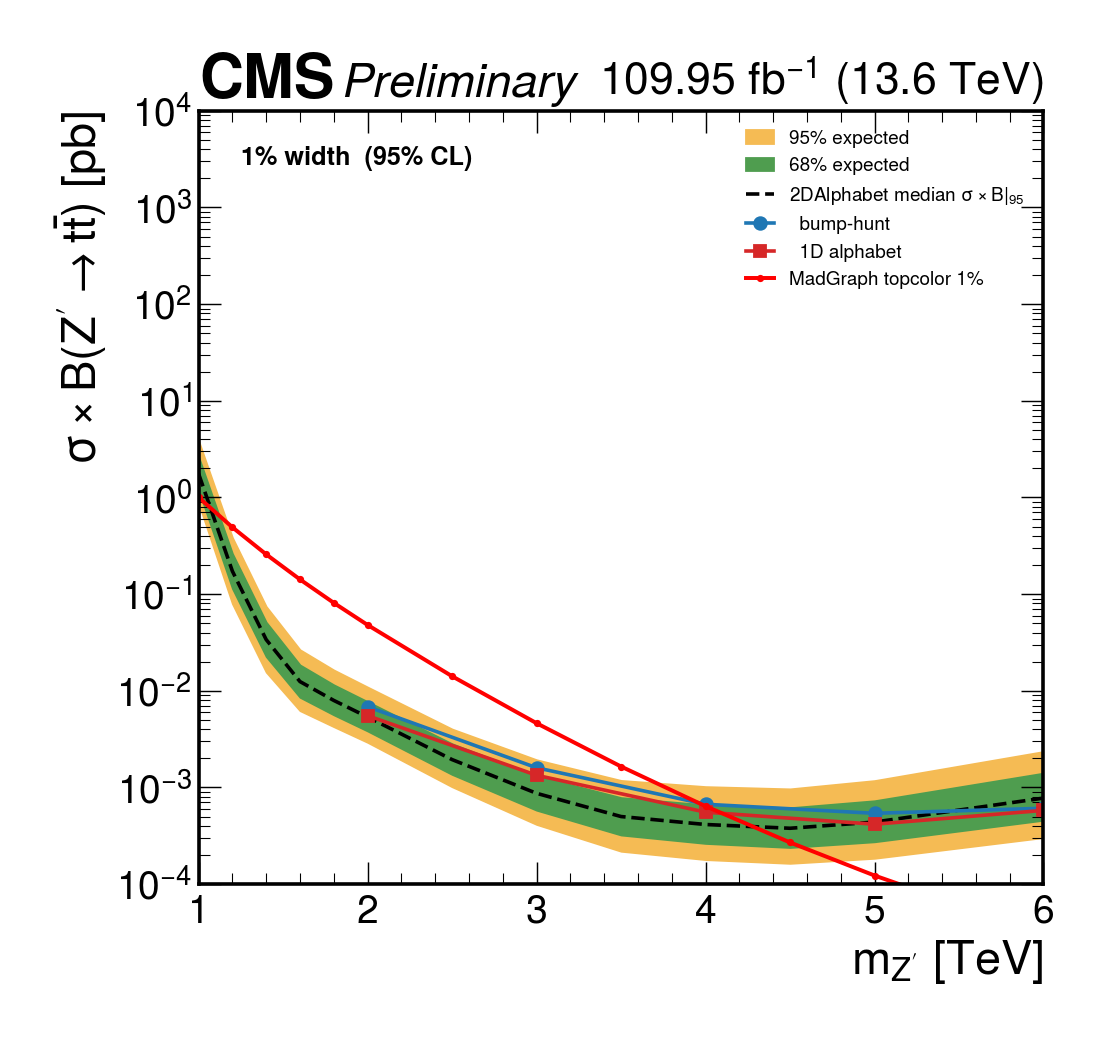
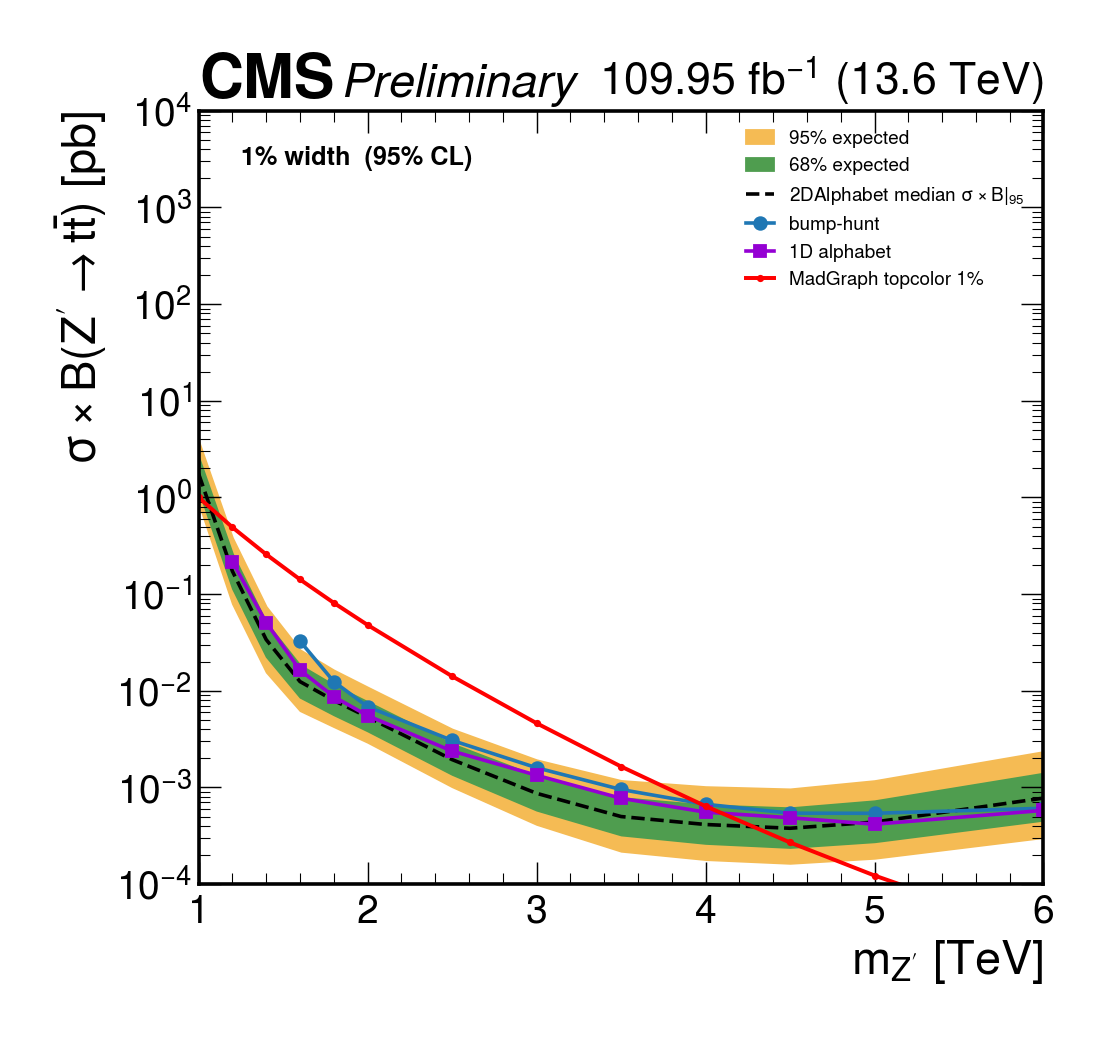
oned: full mass grid (1.2-6 TeV) + recolor alphabet line in sigmaB plot
- 1D alphabet line darkviolet (#9400d3), distinct from the red MadGraph topcolor.
- Ran both 1D methods across the full grid: alphabet 1.2-6 TeV, bump-hunt 1.6-6 TeV
  (its [1500,6500] fit window can't see a resonance peak below ~1.5 TeV, so
  1.2/1.4 TeV are alphabet-only). Both track the 2D bands across the whole range;
  crossings vs topcolor unchanged (bump-hunt 3.96, alphabet 4.10, 2D 4.28 TeV).

diff --git a/oned/plot_sigmaB.py b/oned/plot_sigmaB.py
@@ -115,8 +115,8 @@ def main() -> int:
                 lw=2, ms=7, label="bump-hunt")
     if al:
         s = _sigmaB(al, expected_tab, "exp")
-        ax.plot([m for m, _ in s], [v for _, v in s], "s-", color="#d62728",
-                lw=2, ms=7, label="1D alphabet")
+        ax.plot([m for m, _ in s], [v for _, v in s], "s-", color="#9400d3",
+                lw=2, ms=7, label="1D alphabet")  # darkviolet, distinct from red topcolor
 
     # theory line: MadGraph topcolor only (full grid up to 6 TeV)
     grid = [m for m in topcolor[0] if 1.0 <= m <= 6.0]
